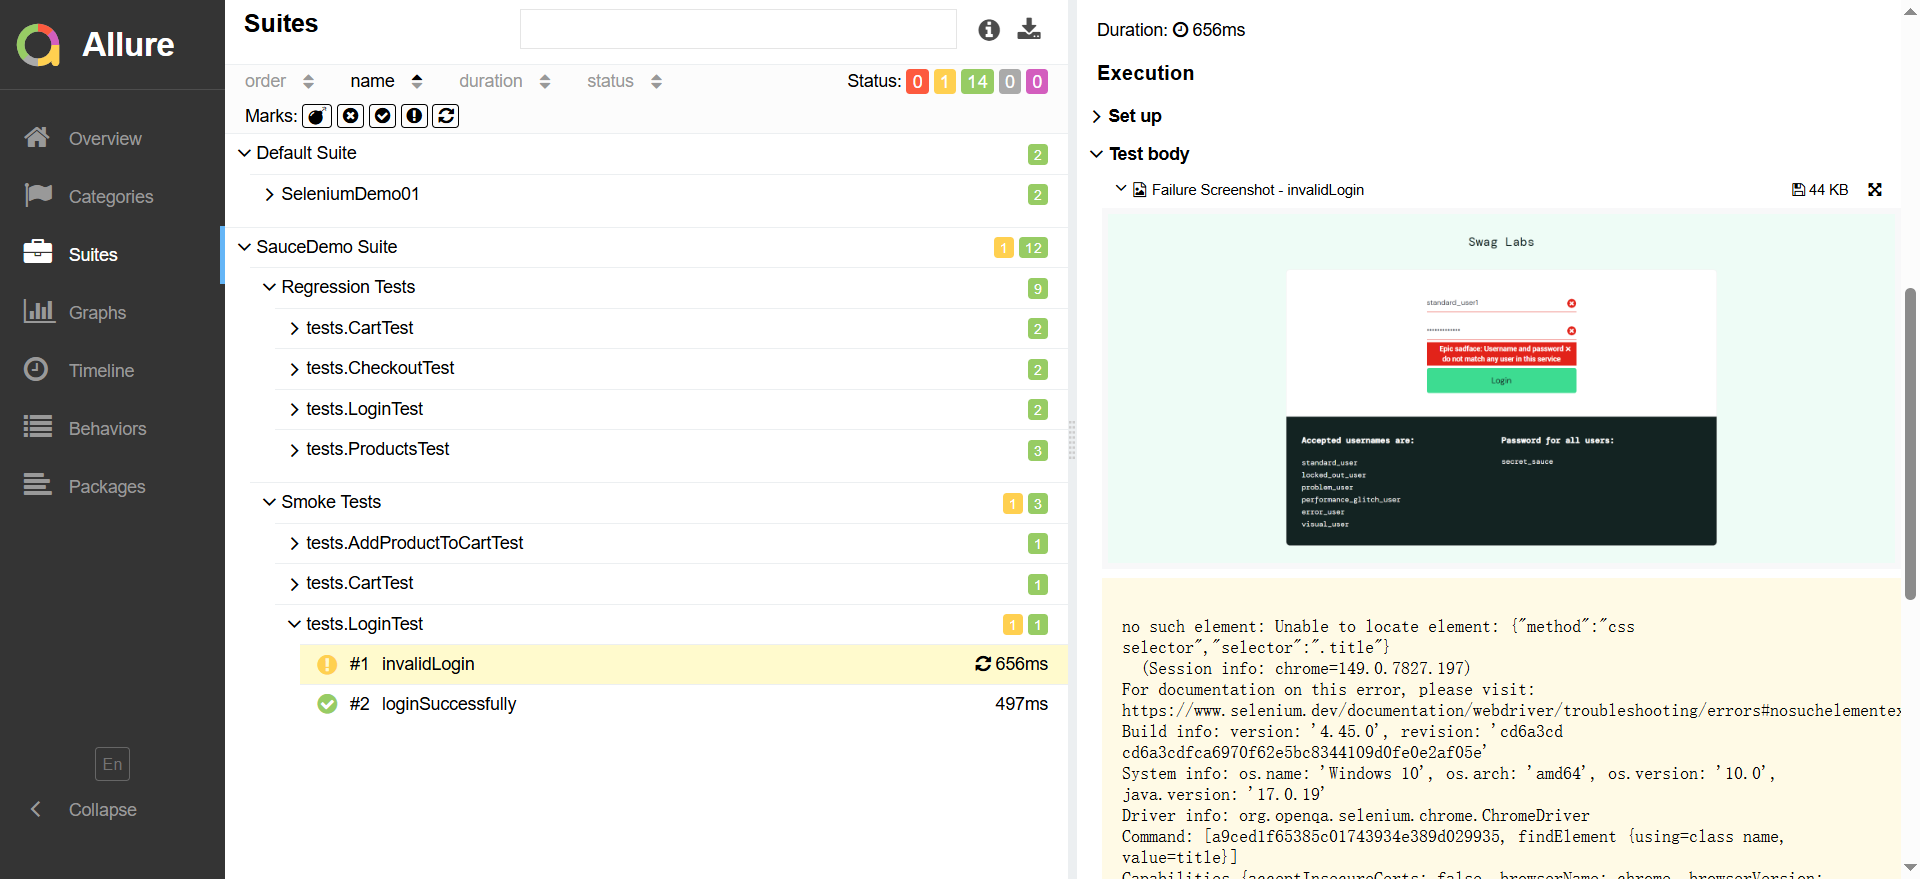
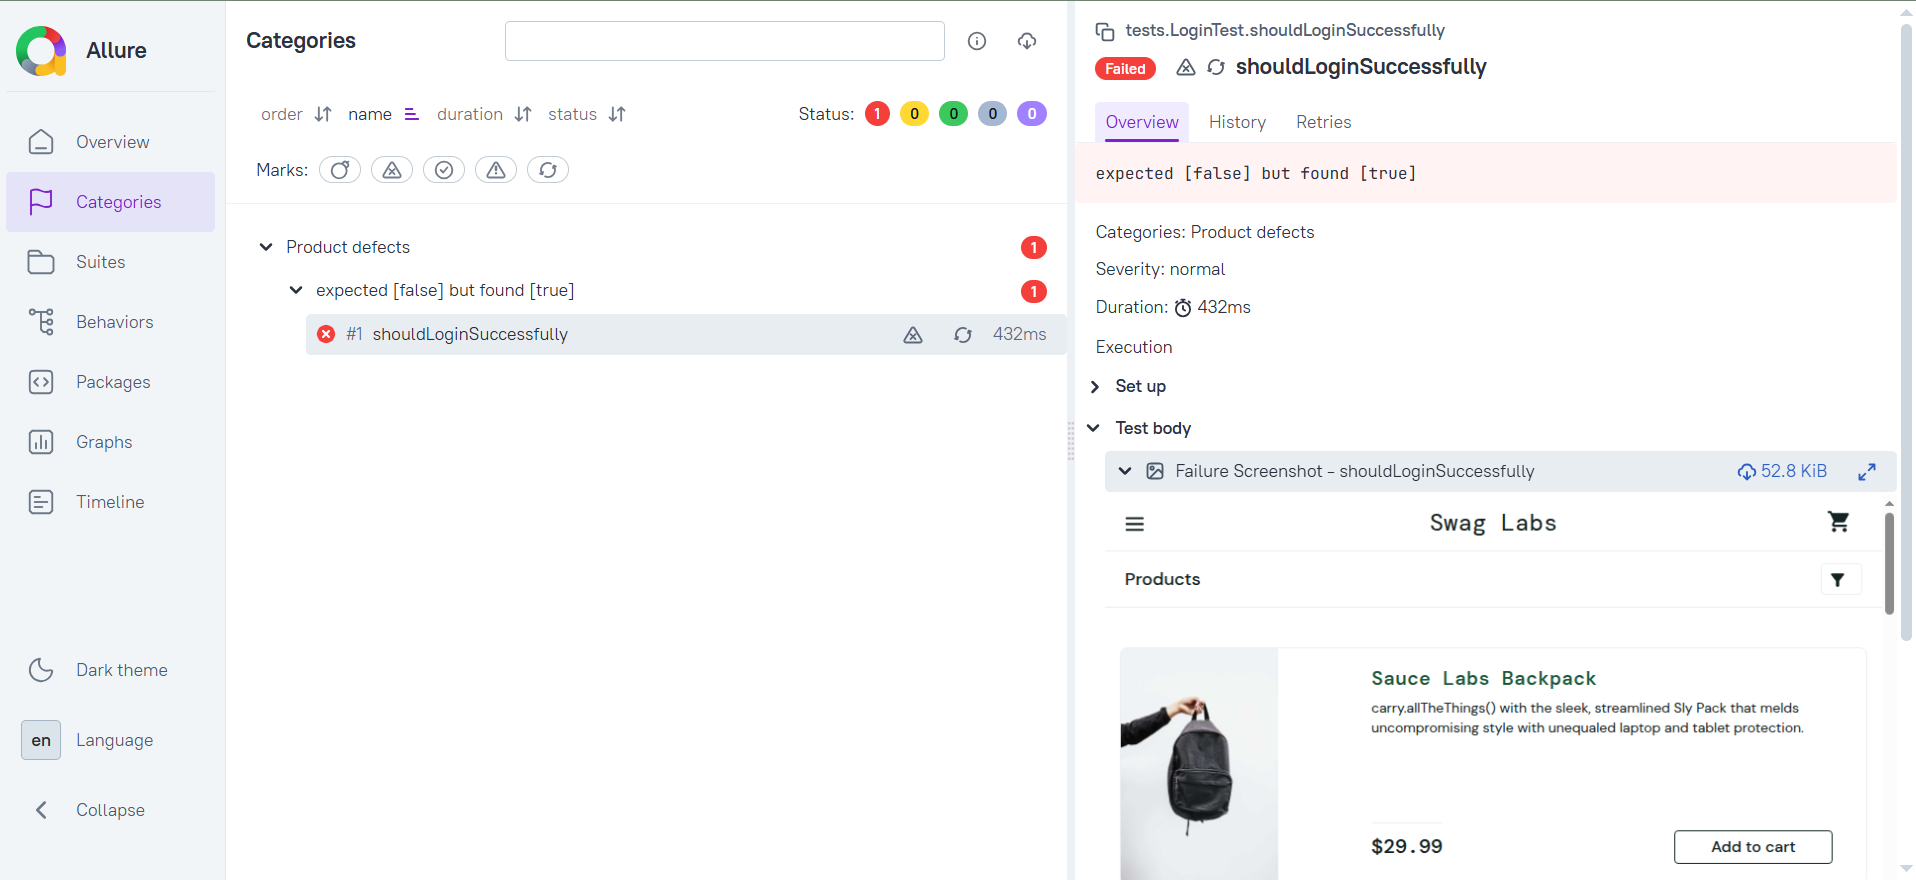
update the screenshot and test case

diff --git a/src/test/java/tests/LoginTest.java b/src/test/java/tests/LoginTest.java
@@ -18,7 +18,7 @@ public class LoginTest extends BaseTest {
                 ConfigReader.getProperty("username"),
                 ConfigReader.getProperty("password"));
 
-    Assert.assertFalse(productsPage.isProductPageDisplayed());
+    Assert.assertTrue(productsPage.isProductPageDisplayed());
     }
 
     @Test
